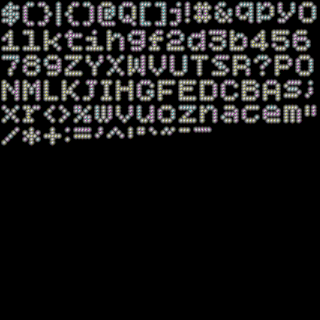
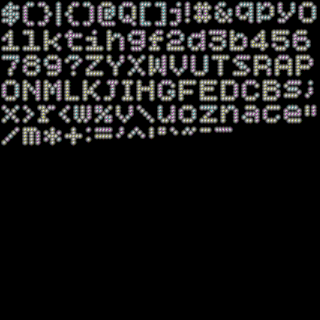
Fixed mistake in the font atlas, and fixed the font size for the text being shown in the different scenes

Changed region(s): [[0.0, 0.1562, 1.0, 0.4688]]

diff --git a/3D_Base/Source/CResult.cpp b/3D_Base/Source/CResult.cpp
@@ -97,14 +97,14 @@ void CResult::Draw()
 	TCHAR dbgText[64];
 	m_pDbgText->SetColor(MenuColor.r, MenuColor.g, MenuColor.b);
 	_stprintf_s(dbgText, _T("RESULT"));
-	m_pDbgText->Render(dbgText, 100, 140, 10);
+	m_pDbgText->Render(dbgText, 100, 140, 50);
 	_stprintf_s(dbgText, _T("Score: 000000"));
-	m_pDbgText->Render(dbgText, 100, 240, 10);
+	m_pDbgText->Render(dbgText, 100, 240, 50);
 	_stprintf_s(dbgText, _T("Enemies Killed: 000"));
-	m_pDbgText->Render(dbgText, 100, 280, 10);
+	m_pDbgText->Render(dbgText, 100, 280, 50);
 	_stprintf_s(dbgText, _T("Boss Killed: Yes"));
-	m_pDbgText->Render(dbgText, 100, 320, 10);
+	m_pDbgText->Render(dbgText, 100, 320, 50);
 	_stprintf_s(dbgText, _T("CONTINUE?"));
-	m_pDbgText->Render(dbgText, 100, 400, 10);
+	m_pDbgText->Render(dbgText, 100, 400, 50);
 
 }

diff --git a/3D_Base/Source/CGame.cpp b/3D_Base/Source/CGame.cpp
@@ -592,15 +592,15 @@ void CGame::Draw()
 	m_pFont->SetColor(1.f, 1.f, 1.f);
 	TCHAR dbgText[64];
 	_stprintf_s(dbgText, _T("SCORE:%d"), m_Score);
-	m_pFont->Render( dbgText, 10, 100, 10);
+	m_pFont->Render( dbgText, 10, 100, 50.f);
 	m_pFont->SetColor(1.f, 1.f, 1.f);
 	_stprintf_s(dbgText, _T("HEALTH:%d"), m_pPlayer->GetHealth() );
-	m_pFont->Render(dbgText, 10, 140, 10);
+	m_pFont->Render(dbgText, 10, 140, 50.f);
 
 	if (IsPause())
 	{
 		_stprintf_s(dbgText, _T("PAUSE"));
-		m_pFont->Render(dbgText, WND_W / 2 - 20, WND_H/2 - 20, 10);
+		m_pFont->Render(dbgText, WND_W / 2 - 20, WND_H/2 - 20, 50.f);
 	}
 }
 

diff --git a/3D_Base/Source/CTitle.cpp b/3D_Base/Source/CTitle.cpp
@@ -108,6 +108,6 @@ void CTitle::Draw()
 	TCHAR dbgText[64];
 	m_pDbgText->SetColor(startMenuColor.r, startMenuColor.g, startMenuColor.b);
 	_stprintf_s(dbgText, _T("START"));
-	m_pDbgText->Render(dbgText, 100, 140, 10);
+	m_pDbgText->Render(dbgText, 100, 140, 50.f);
 
 }
